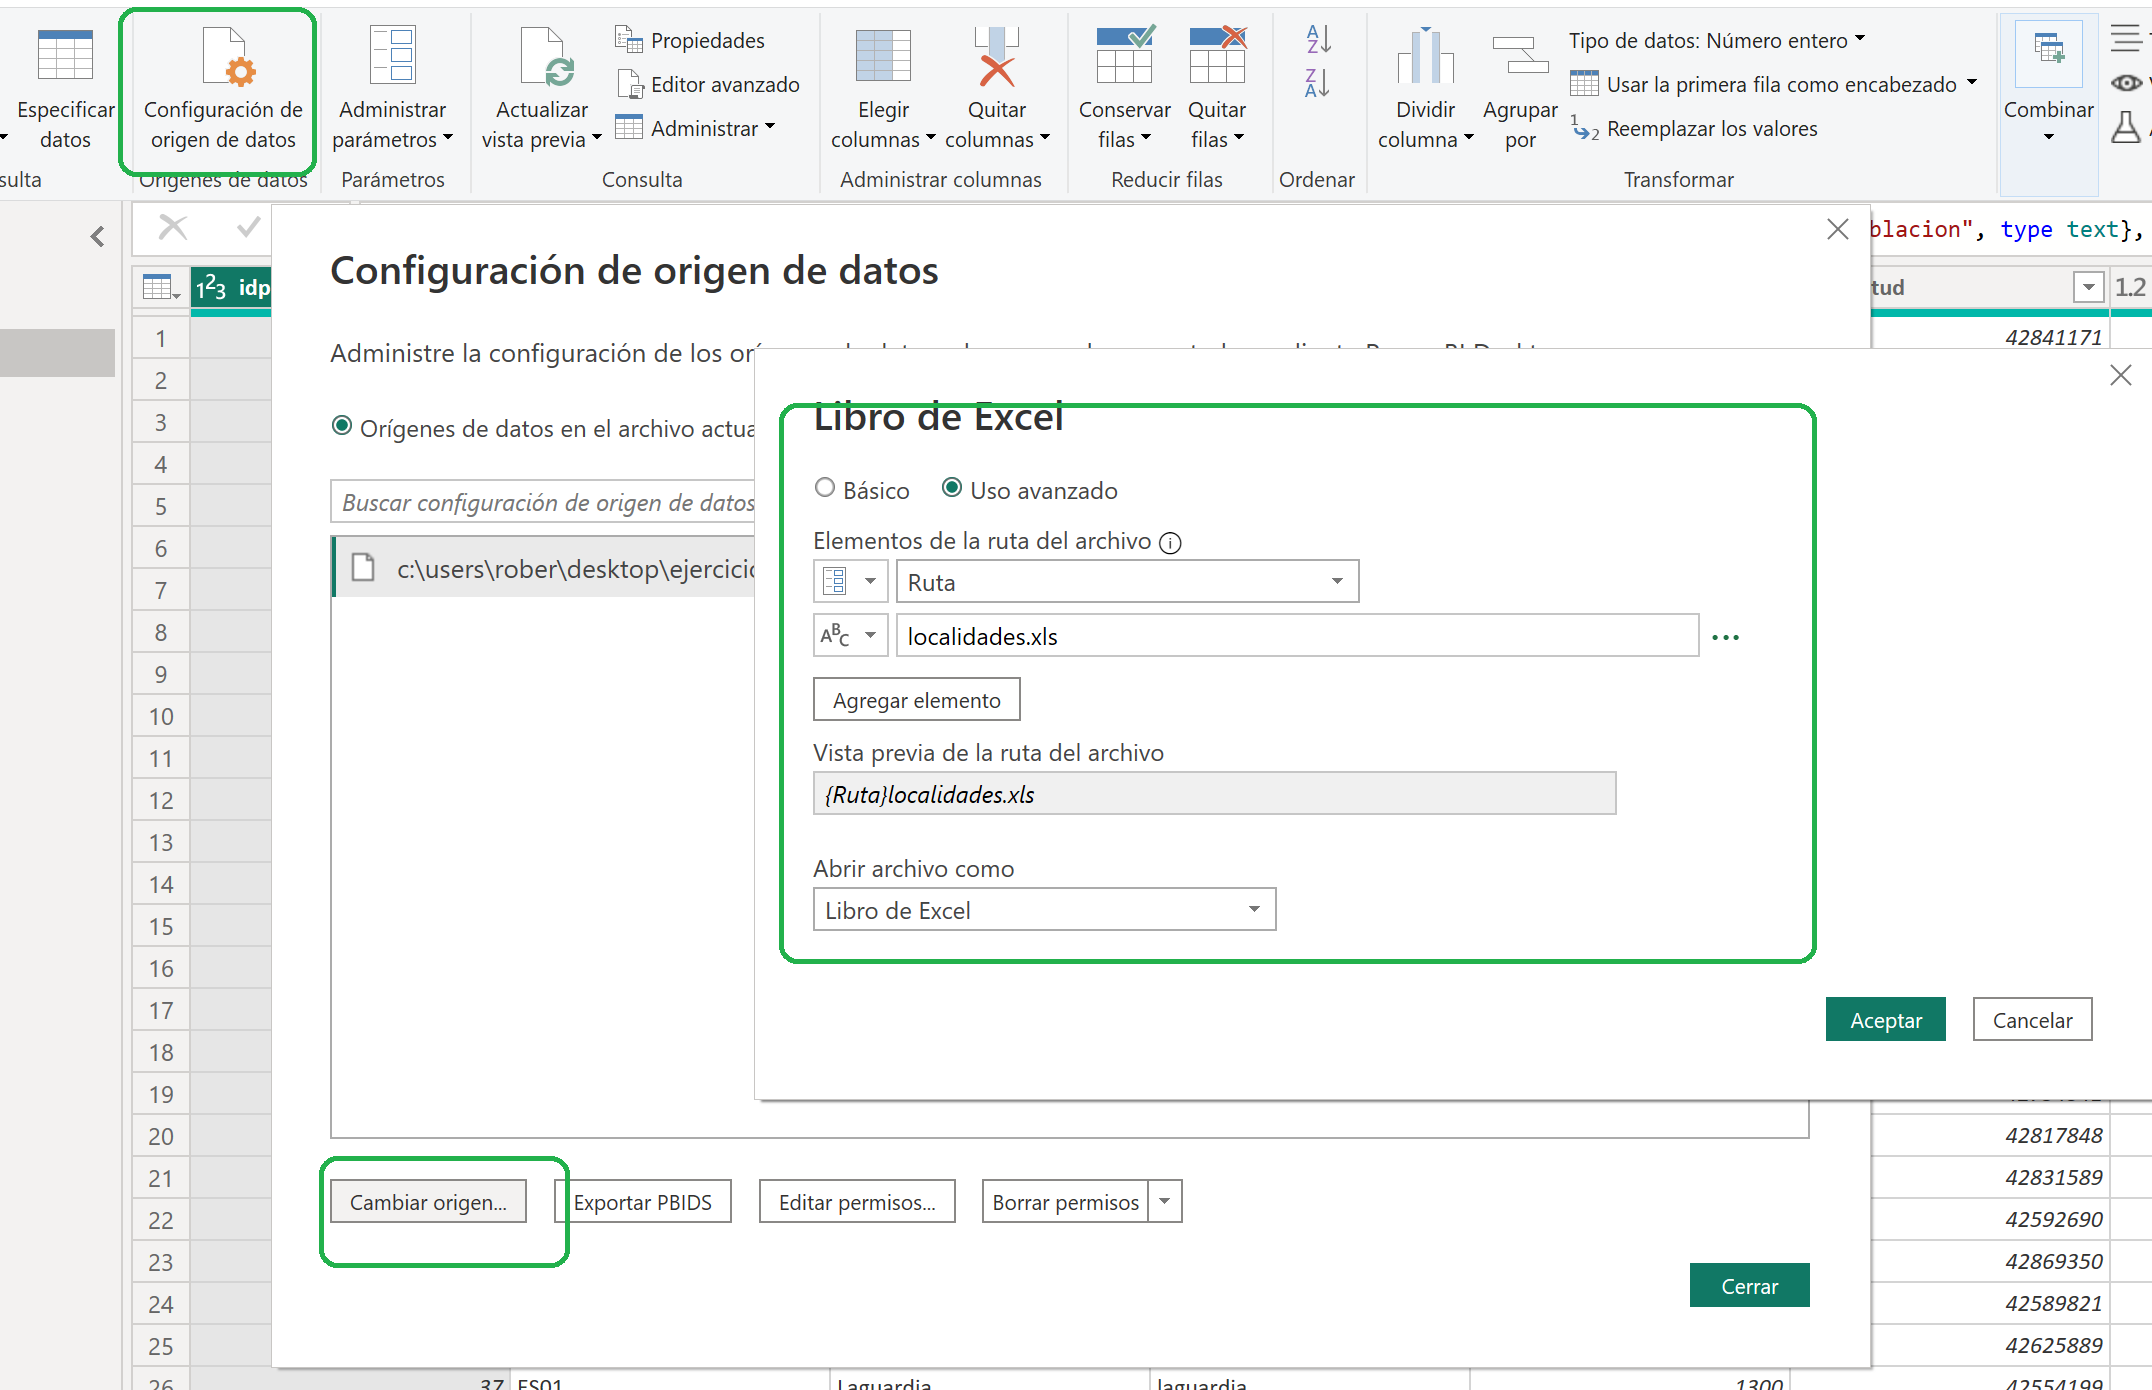
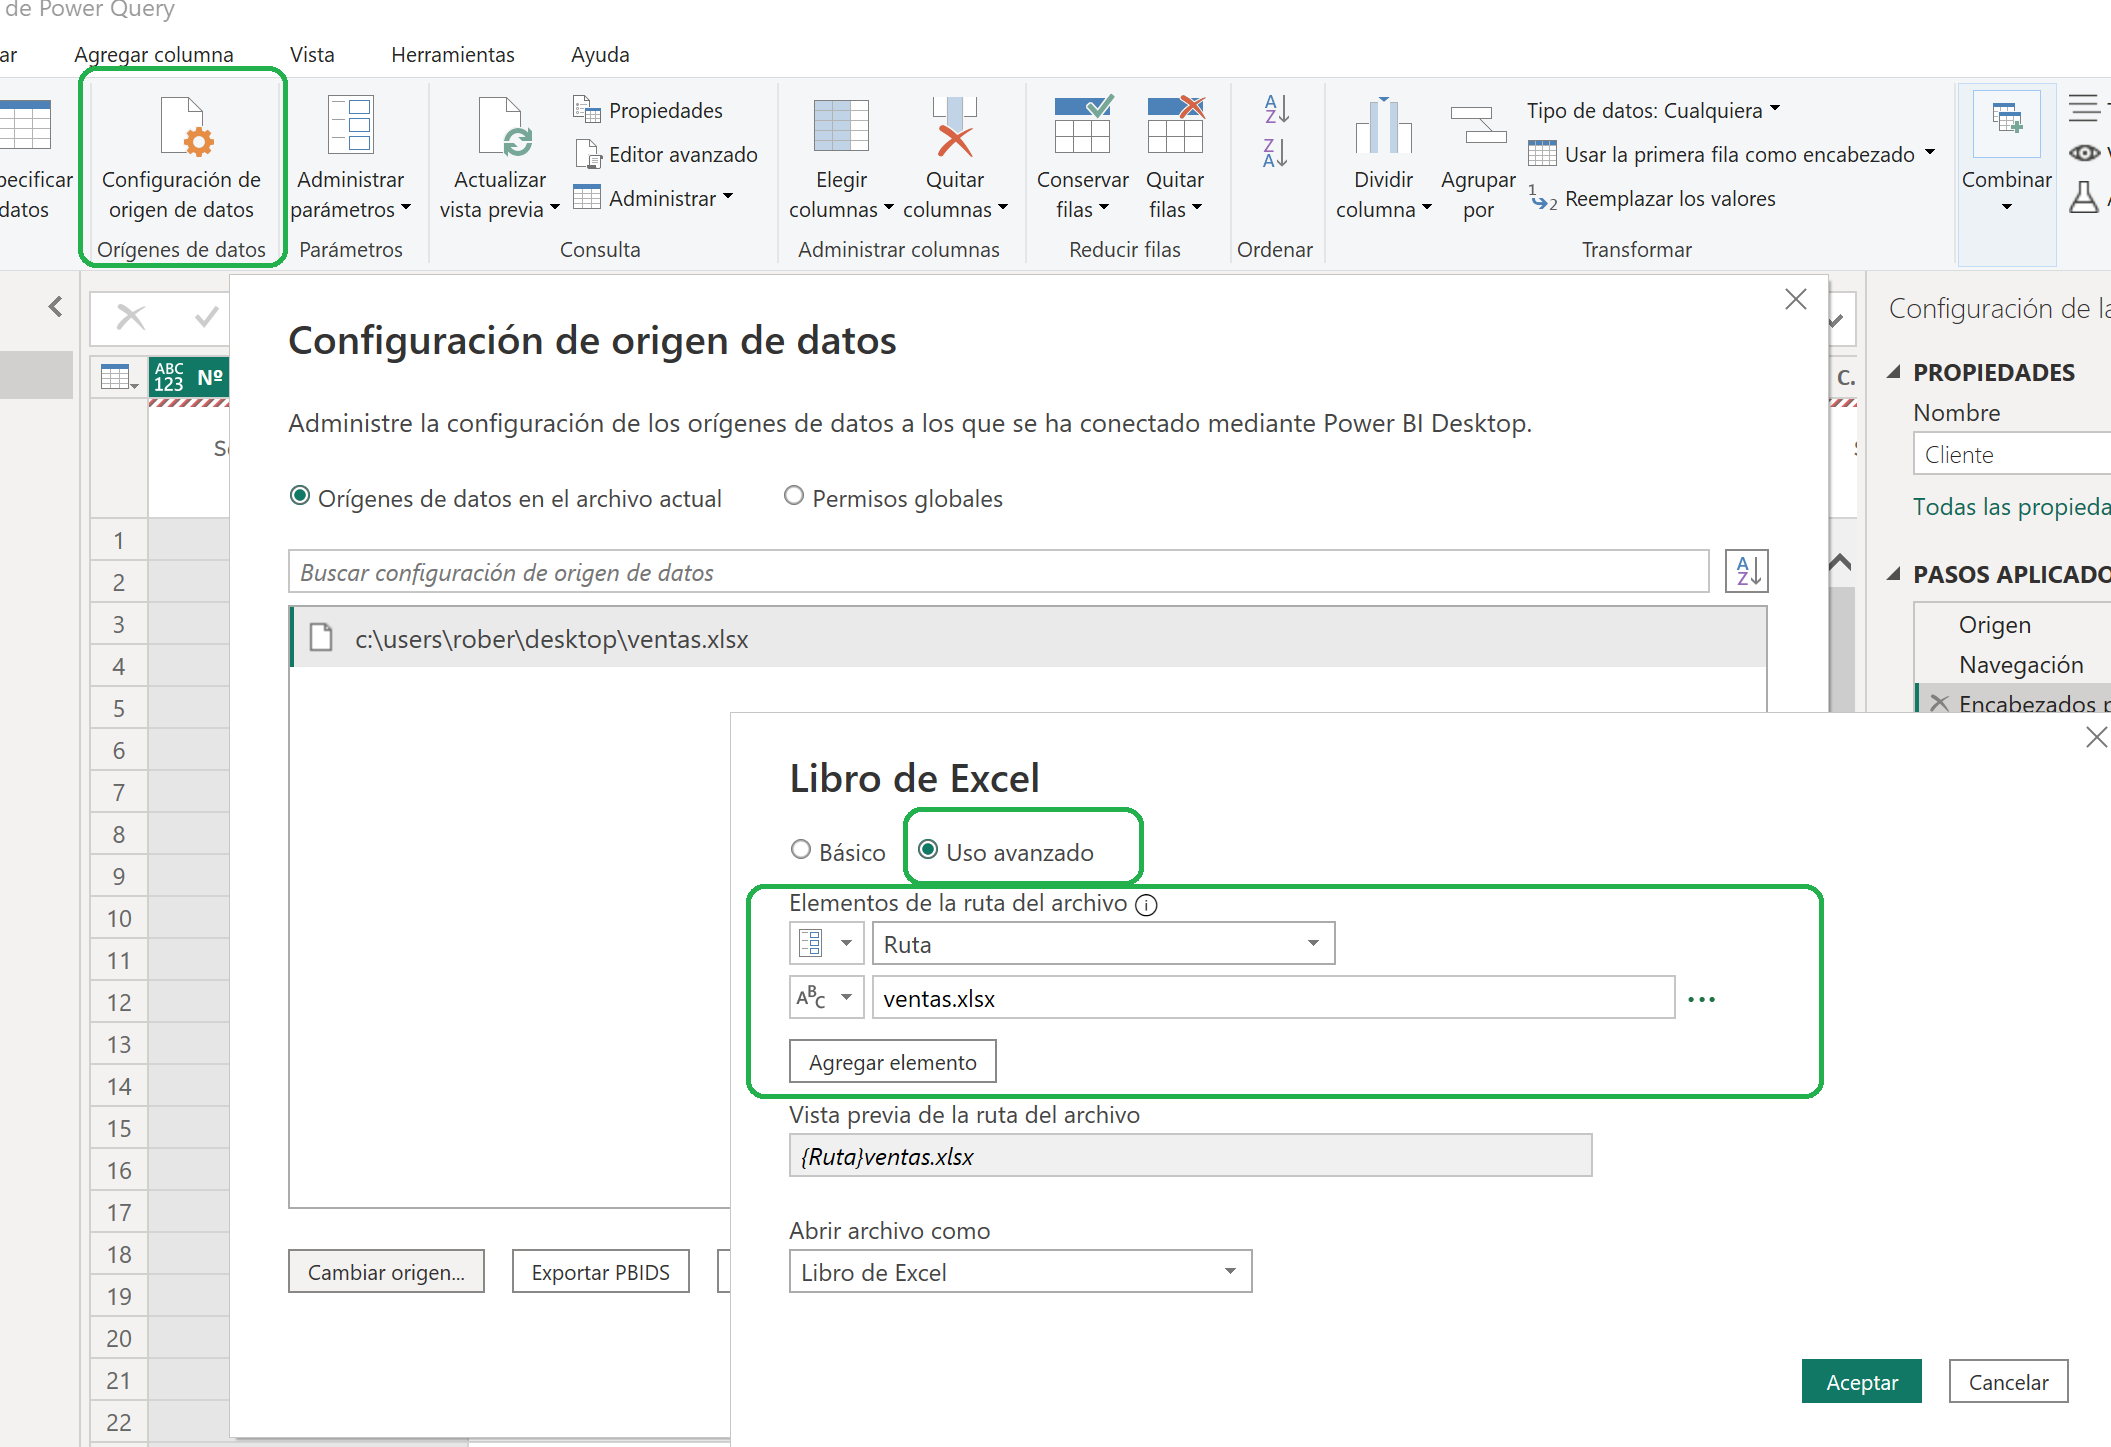
Add files via upload

Changed region(s): [[0.0, 0.0, 1.0, 1.0], [0.5234, 0.9899, 0.585, 1.0], [0.8006, 0.9899, 0.8314, 1.0]]

diff --git a/powerbi/002 - Usando Parametros/parametros.md b/powerbi/002 - Usando Parametros/parametros.md
@@ -10,19 +10,40 @@ Necesitamos tener un parametro con la ruta de nuestros ficheros Excel para en ca
 
 2 - Guardarlo en el escritorio
 
-3 - Abrir Power BI y cargar el fichero de excel recien descargado.
+![](Recursos/download.png)
 
-4 - Guardar el fichero 
+3 - Abrir Power BI y **cargar** el fichero de excel recien descargado.
+
+![](Recursos/excel.png)
+
+4 - Crear un visualizador de "Columnas apiladas" y poner las ventas por Area
+	- Eje X: Area Código
+	- Eje Y: Suma Ventas (DL)
+	
+![](Recursos/ventasAreas.png)	
+
+5 - Guardar el fichero PBIX como "ventasHotel.pbix" en una nueva carpeta llamada "c:\misSoluciones"
+
+6 - Crear una carpeta en c:\ llamada recursos y mover (no copiar) allí el fichero **ventas.xlsx**
+
+7 - Desde Power BI Desktop, menú Inicio acción "Actualizar", nos permite obtener los cambios en el fichero de origen, pero:
+
+![](Recursos/error.png)	
+
+
+** Utilizamos los parámetros para definir el origen de los datos  **
 
 
 **Desde Power Query Editor**
 
 
-1 - Abrir Parámetros / Administrar Parámetros
+1 - Abrir en el menú "Inicio" Parámetros / Administrar Parámetros
 
 ![](Recursos/param01.png)
 
-2 – Crear nuevo parámetro
+2 – Crear nuevo parámetro "Ruta", donde introduciremos el "Valor actual" como "c:\recursos\"
+
+	En el panel de consultas, nos aparecerá el nuevo parámetro creado.
 
 3 - Para usar el nuevo parámetro, abriremos "Configuración del origen de los datos"
 
@@ -32,9 +53,15 @@ Necesitamos tener un parametro con la ruta de nuestros ficheros Excel para en ca
 
 5 - Poner el uso avanzado
 
-6 - Seleccionar el parámetro recien creado
+6 - Seleccionar el parámetro recien creado en la primera fila (si es necesario pinchar a bajar el nombre del fichero que teníamos)
 
 7 - Añadir el nombre del fichero en un segundo elemento.
+
+8 - Cerrar y aplicar Power Query Editor
+
+9 - Actualizar datos.
+
+10 - Guardar el fichero "ventasHotel.pbix"
 
 
 09 de Marzo 2023        @rccorella
